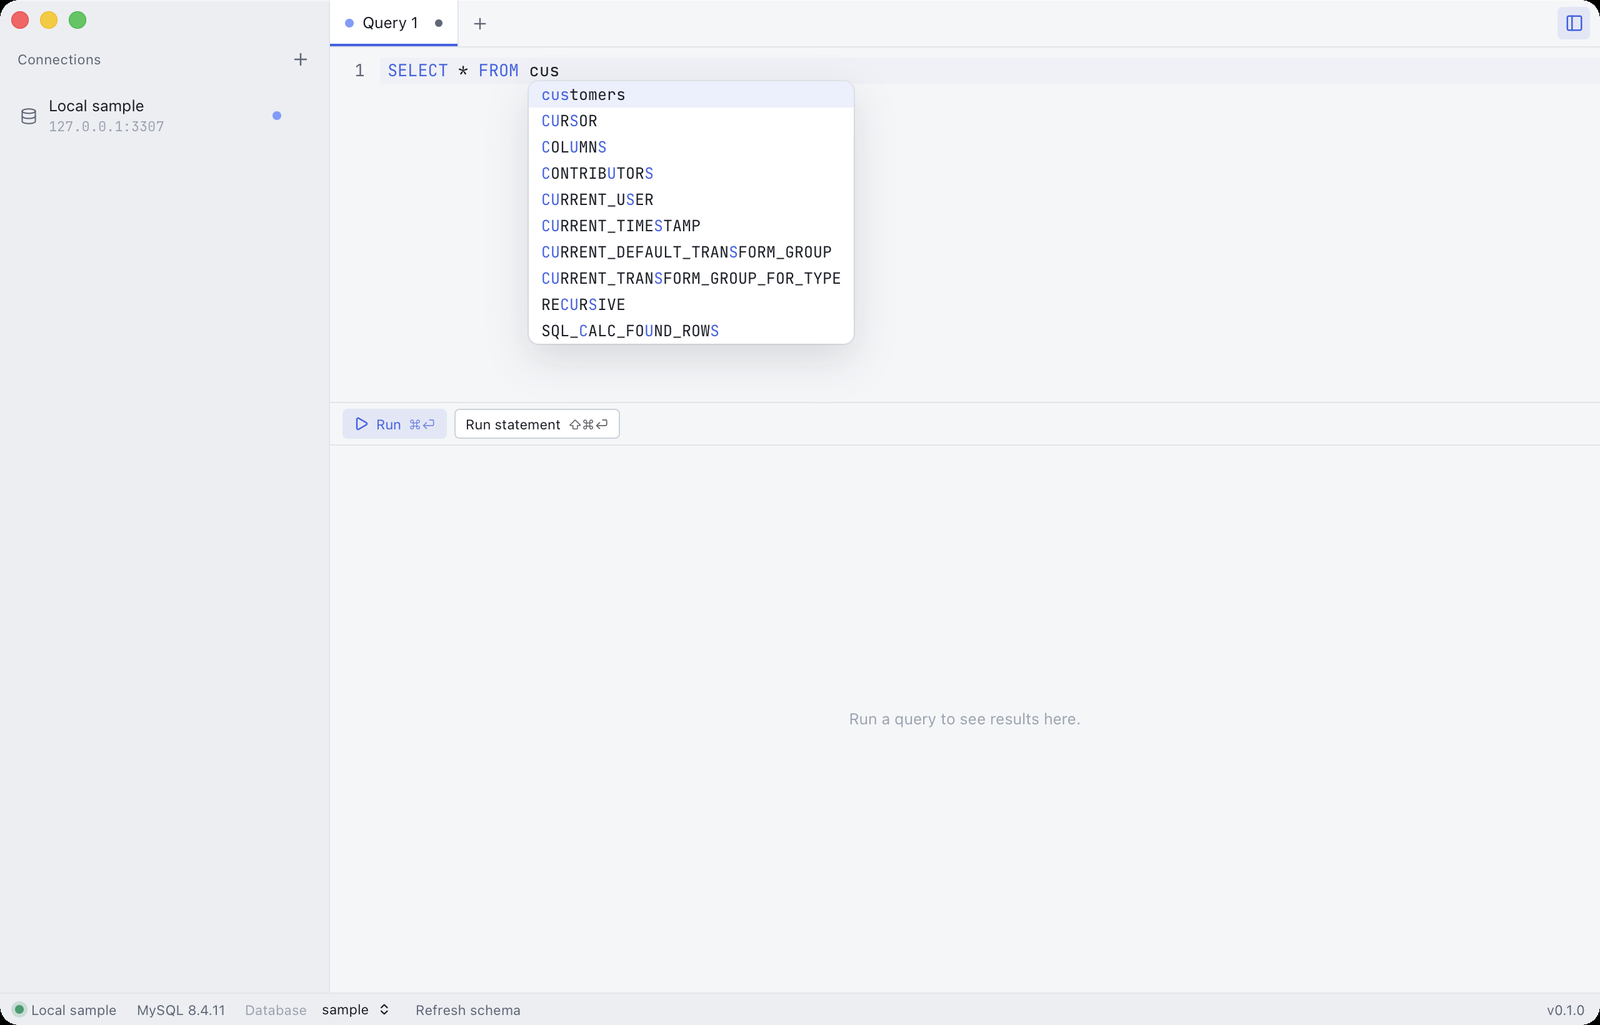
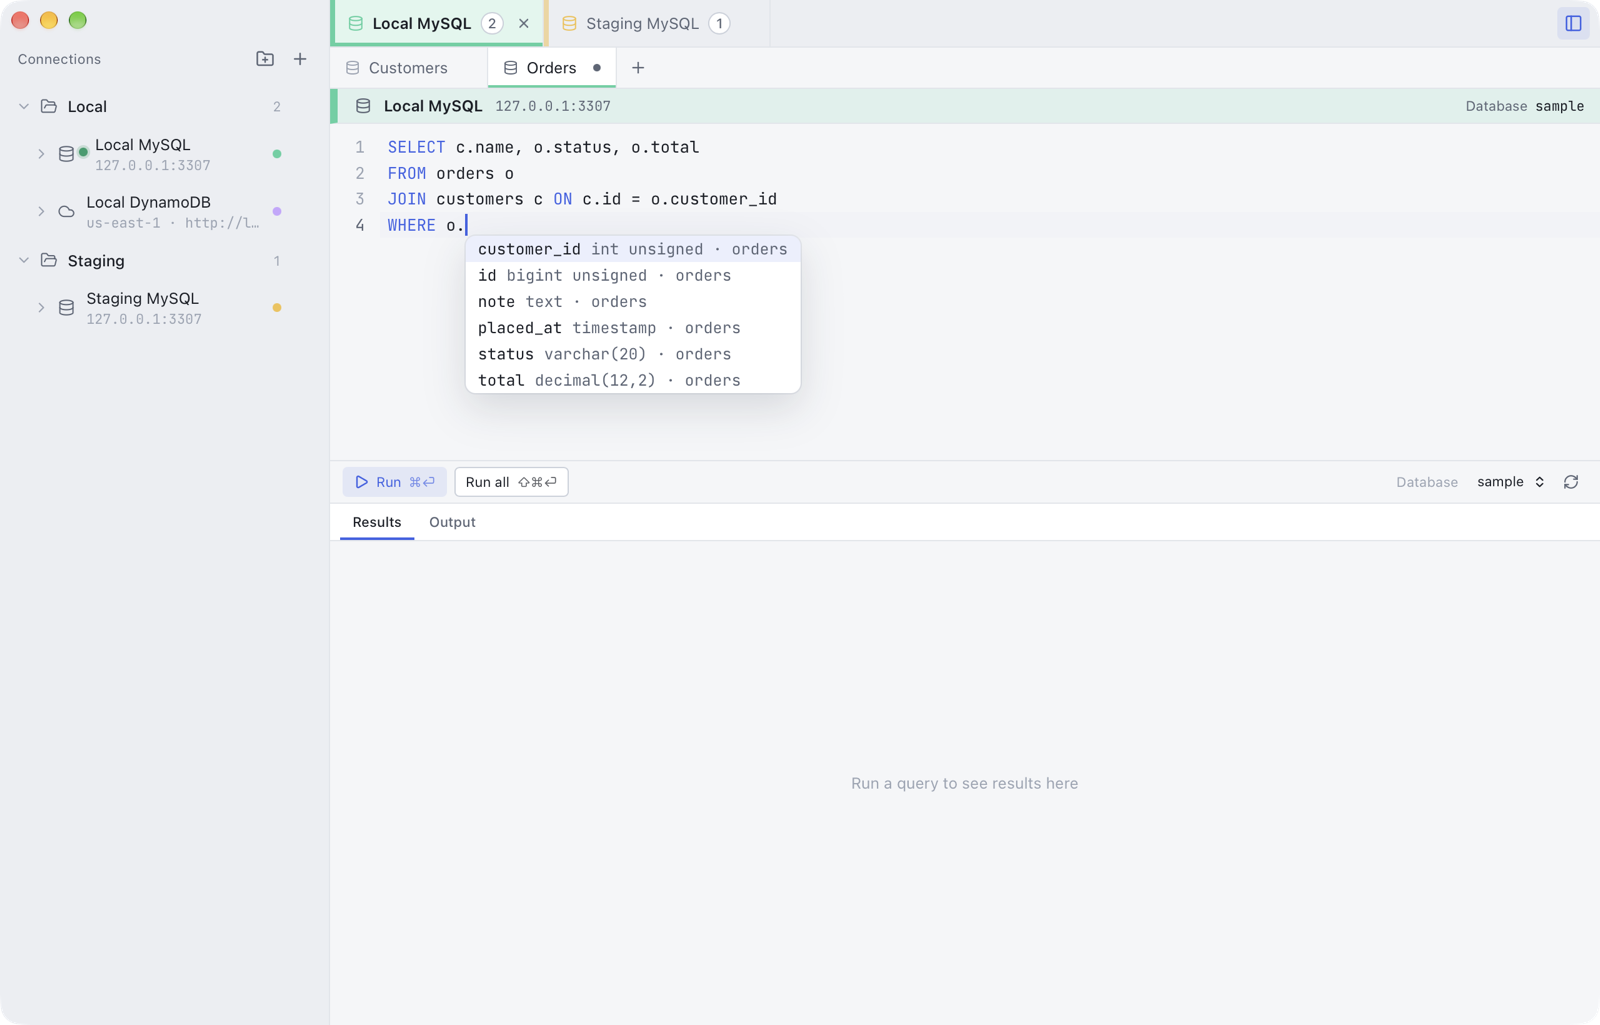
docs: install and usage guide with screenshots of 0.2.0
Also keeps the pending-changes bar readable beside the DynamoDB item panel: its items wrap as a
whole instead of breaking words, and only the hint is cut short.

diff --git a/src/features/query/query.css b/src/features/query/query.css
@@ -385,13 +385,21 @@
 .pending-bar {
   flex: none;
   display: flex;
+  flex-wrap: wrap;
   align-items: center;
-  gap: 8px;
-  height: 36px;
-  padding: 0 12px;
+  gap: 4px 8px;
+  min-height: 36px;
+  padding: 4px 12px;
   border-top: 1px solid var(--line);
   background: var(--accent-soft);
   font-size: var(--text-xs);
+}
+
+/* Narrow bars (e.g. beside the DynamoDB item panel) wrap whole items, never words; the hint
+   is the only part cut short. */
+.pending-bar > :not(.pending-bar__hint) {
+  flex: none;
+  white-space: nowrap;
 }
 
 .pending-bar__count {
@@ -404,6 +412,7 @@
 }
 
 .pending-bar__hint {
+  min-width: 0;
   margin-left: auto;
   overflow: hidden;
   color: var(--text-faint);

diff --git a/README.md b/README.md
@@ -6,7 +6,30 @@ A minimal, modern desktop client for MySQL, DynamoDB and Amazon Athena. Tauri 2,
 
 > Built with AI. I set the direction and tested every feature against my own databases; the code, tests and docs were written in sessions with [Claude Code](https://claude.com/claude-code). See [Why I built this](#why-i-built-this).
 
-![MySQL result grid with typed cells](docs/screenshots/mysql-grid.png)
+![Tabs grouped by connection above a MySQL result grid](docs/screenshots/mysql-grid.png)
+
+## Install
+
+Download the latest build from [Releases](https://github.com/likeratel/ratelquery/releases/latest):
+
+| Platform | File |
+| --- | --- |
+| macOS, Apple silicon | `ratelquery_<version>_aarch64.dmg` |
+| macOS, Intel | `ratelquery_<version>_x64.dmg` |
+| Windows | `ratelquery_<version>_x64-setup.exe` or `ratelquery_<version>_x64_en-US.msi` |
+| Linux | `ratelquery_<version>_amd64.AppImage`, `.deb` or `.rpm` |
+
+On macOS, open the `.dmg` and drag **ratelquery** into Applications. Builds are not notarized by Apple, so the first launch is blocked with "ratelquery can't be opened" or "is damaged". Either right-click the app in Applications and choose **Open**, or clear the download flag once:
+
+```sh
+xattr -dr com.apple.quarantine /Applications/ratelquery.app
+```
+
+On Windows, SmartScreen may warn about an unknown publisher: choose **More info → Run anyway**. On Linux, install the `.deb` or `.rpm`, or make the AppImage executable (`chmod +x`) and run it.
+
+To update, quit the app and replace it with the new version. Connections, folders, settings and saved passwords are kept: they live in the app's config folder (`~/Library/Application Support/dev.harry.ratelquery` on macOS), not in the app bundle.
+
+To build it yourself instead, see [Development](#development).
 
 ## Why another client
 
@@ -29,7 +52,7 @@ What I did: decided what to build and what to leave out, picked the stack (Tauri
 
 - Query tabs with a CodeMirror editor, schema completion, run all or run the statement at the cursor
 - Virtualised result grid with typed cells: integers, decimals and dates keep their exact text, `NULL` is visible, binary is base64
-- Edit cells, add and delete rows, then apply them in one transaction guarded to exactly one row per change
+- Edit cells, add and delete rows, then apply them in one transaction guarded to exactly one row per change. Works on single-table results that include the primary key, in any letter case and with `db.table` names
 - Export the visible rows or the full result as CSV, JSON or SQL inserts
 - TLS modes from preferred to full identity verification
 - SSH tunnels through a bastion with agent, key file or password auth, and a fingerprint check for unknown host keys
@@ -39,6 +62,7 @@ What I did: decided what to build and what to leave out, picked the stack (Tauri
 - Browse tables with their key schema and indexes
 - Scan and Query with key conditions, filter expressions and paging
 - Table and JSON views, item detail, a wire/plain JSON editor and a diff before every save
+- Edit string, number and boolean cells right in the grid, then apply them together; each write only succeeds if the item still holds the values you started from
 - Export a scan or query as JSON, JSON Lines or CSV
 
 **Athena**
@@ -49,14 +73,71 @@ What I did: decided what to build and what to leave out, picked the stack (Tauri
 
 **All**
 
+- Tabs are grouped under their connection, and a coloured strip above every tab names the server and database it talks to, so a statement never goes to the wrong place
+- Folders and your own order for connections; duplicate a connection with its saved password
+- An Output log next to the results with every statement's outcome, kept for the number of days you choose
+- Resizable sidebar and DynamoDB panels
 - Secrets live in the OS keyring, never in the settings file
 - Export paths are limited to files you chose in the save dialog
 - Light and dark themes that follow the system
 
+## Using ratelquery
+
+### Connections
+
+Press `⌘N` (or **+** in the sidebar) and pick MySQL, DynamoDB or Athena. **Test** checks the settings before you save. Give production connections a colour: it follows the connection into its tabs and the strip above the editor.
+
+- **MySQL**: host, port, user, password and an optional default database. TLS and an SSH tunnel (agent, key file or password) are under the same dialog.
+- **DynamoDB**: a region and either an AWS profile from `~/.aws` or access keys. Set an endpoint such as `http://localhost:8000` for DynamoDB Local.
+- **Athena**: a region and an AWS profile or keys. Workgroups are listed for you; the result location comes from the workgroup unless you set one.
+
+Organise the sidebar with **New folder** (next to **+**) and drag connections to reorder them or drop them on a folder. The **…** menu on a row has the same moves (**Move up**, **Move down**, **Move to folder…**) plus **Edit**, **Duplicate** and **Delete**. Duplicate copies the saved password too. Deleting a folder keeps its connections.
+
+Passwords go to the macOS keychain (or the Windows credential store). If the keychain keeps asking after an update, choose the file store in Settings, which keeps them in a `0600` file in the config folder.
+
+### Tabs
+
+Click a connection to open a tab on it. The top row has one tab per connection with open tabs; the row below shows that connection's query, table and DynamoDB tabs. The strip under the tabs repeats the connection, its host and the database a query will run in.
+
+`⌘1`…`⌘8` switch between the tabs of the current connection and `⌘9` jumps to its last tab. Add `⌥` to switch connections instead. The tabs you had open come back when you restart the app.
+
+### Running SQL
+
+`⌘⏎` runs the statement at the cursor, `⇧⌘⏎` runs the selection or the whole editor. Pick the database next to **Run**. A `SELECT` without a `LIMIT` gets the default limit from Settings, and `UPDATE` or `DELETE` without a `WHERE`, `DROP`, `TRUNCATE`, `ALTER` and `RENAME TABLE` ask first.
+
 ![Schema completion](docs/screenshots/mysql-autocomplete.png)
+
+The bottom panel has two tabs. **Results** shows the rows, one sub-tab per statement when several ran. **Output** logs what the database answered for each statement: rows returned, rows affected or the error, with the time it took. A red dot on **Output** means an error you haven't looked at yet. Click a statement to see all of it; the buttons on each entry put its SQL back in the editor or copy it. Output is kept for 30 days by default; change it under **Settings → Keep query output for (days)**, where 0 keeps nothing on disk.
+
+![Output log of a script](docs/screenshots/mysql-output.png)
+
+### Editing MySQL rows
+
+Results from a single table that include its primary key can be edited. Double-click a cell or press `Enter` to edit it, type `NULL` for SQL `NULL`, and use **Add row** and **Delete row** in the toolbar. Changes stay pending, marked in the grid, until you press **Apply** (`⌘S`); they are then written in one transaction, and the whole batch is rolled back if any change does not hit exactly one row. Joins, aggregates, computed columns, views and tables without a primary key stay read only, and the toolbar says why.
+
 ![Pending grid edits](docs/screenshots/mysql-pending-edit.png)
+
+### DynamoDB
+
+Choose a table on the left, then **Scan** or **Query** (with a key condition, filter, names and values) and press `⌘⏎`. Click an item to see it on the right; drag the panel edges to resize them.
+
 ![DynamoDB browser](docs/screenshots/dynamo-browser.png)
+
+String, number and boolean cells can be edited right in the grid; keys, `NULL`, maps, lists, sets and binary open the item editor instead. Grid edits wait for **Apply**, and each item is written only if it still has the values you loaded, so a change made elsewhere in the meantime is refused rather than overwritten.
+
+![DynamoDB grid edits waiting for Apply](docs/screenshots/dynamo-inline-edit.png)
+
+**Edit item** opens the JSON editor, in plain JSON or the DynamoDB wire format. `⌘S` shows every added, changed and removed attribute before anything is saved.
+
 ![Diff review before saving an item](docs/screenshots/dynamo-diff-review.png)
+
+### Athena
+
+Athena tabs use the same editor, with tables and columns from the Glue Data Catalog in the sidebar and in completion. Every statement shows the data it scanned and its engine time. Queries are never re-run on their own, because each run is billed.
+
+### Exporting
+
+**Export** above a grid saves the visible rows or the full result as CSV, JSON or SQL inserts; DynamoDB exports a scan or query as JSON, JSON Lines or CSV. **Copy** puts cells or rows on the clipboard.
 
 ## Shortcuts
 
